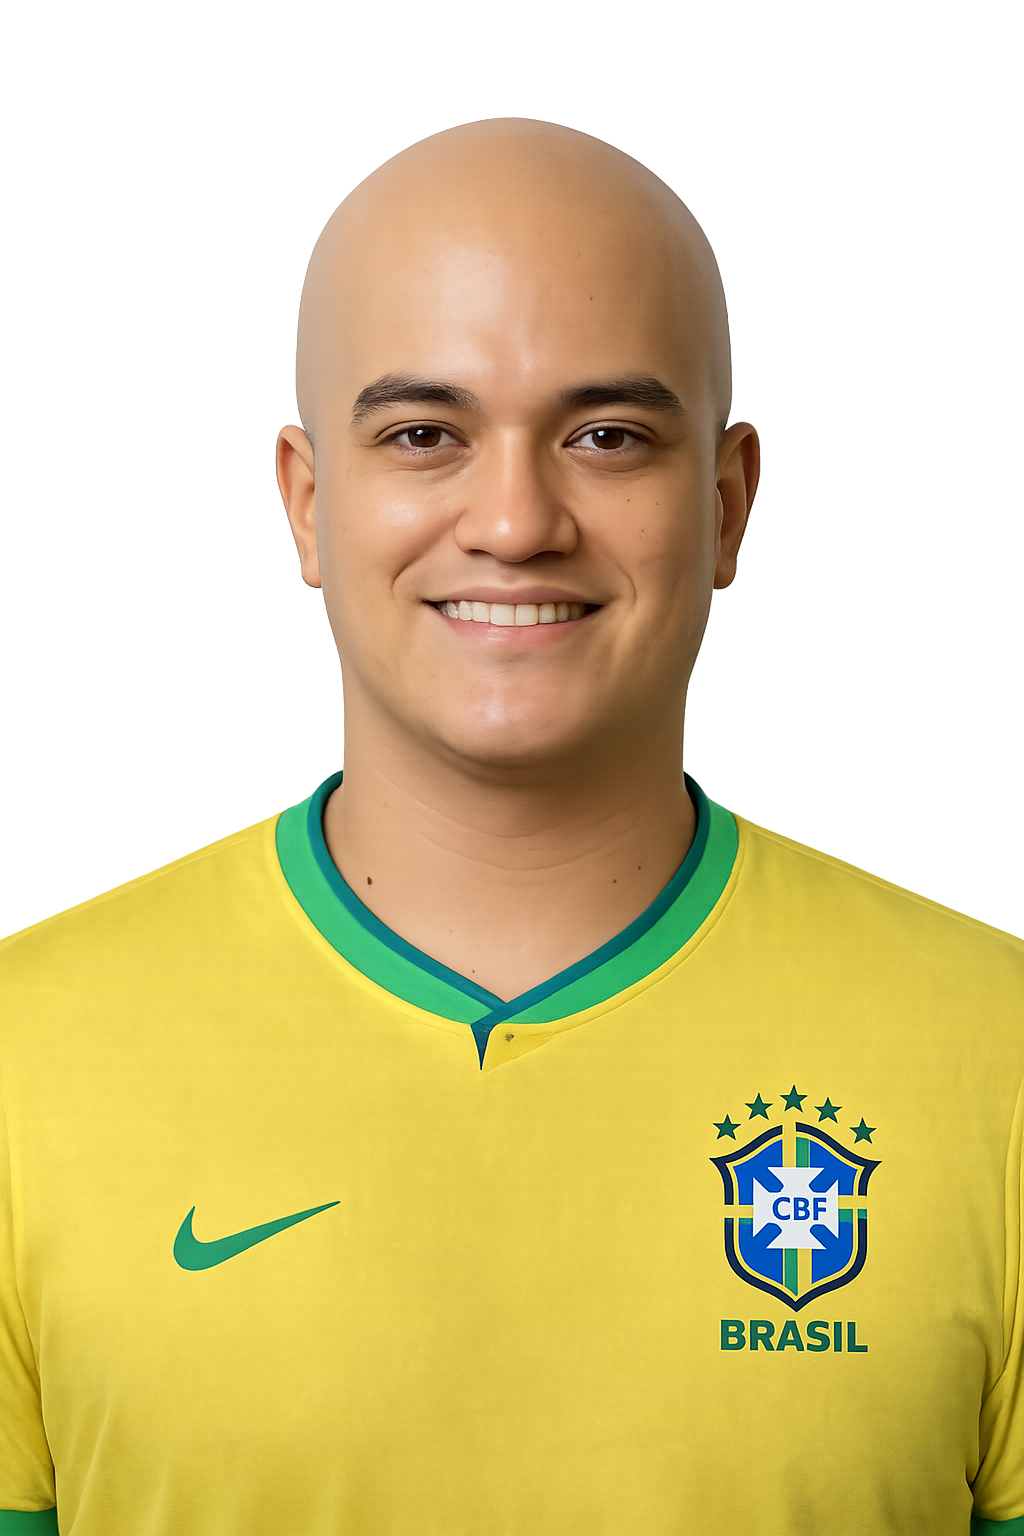
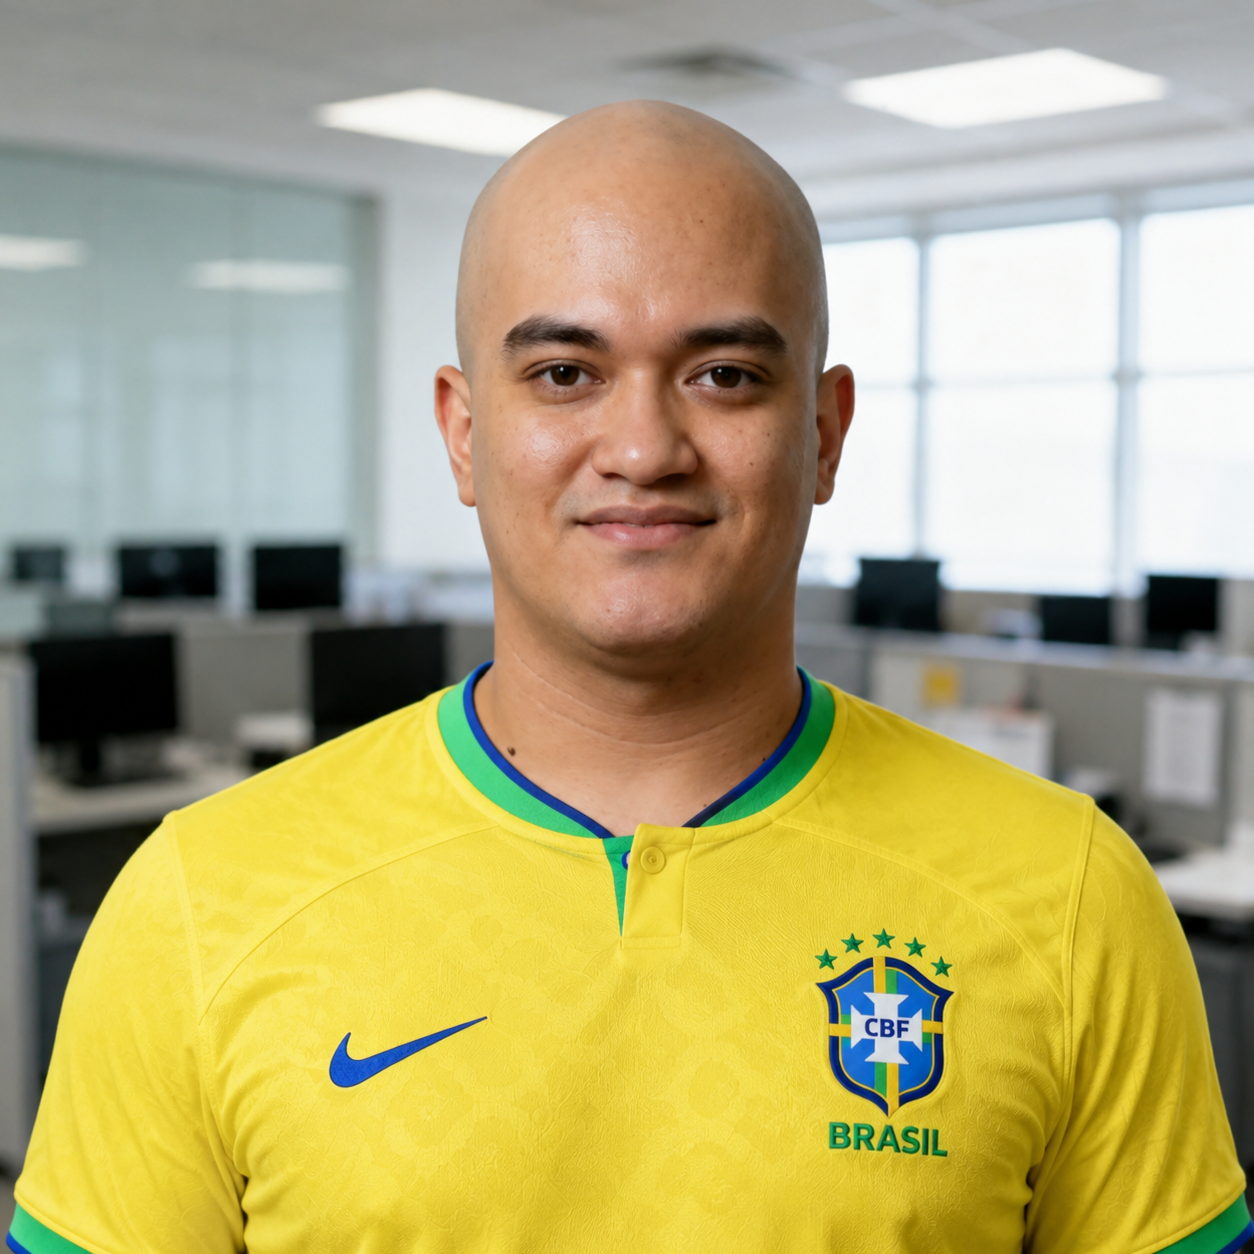
fix: substituir imagem do boleiro por versão RGB sem transparência

diff --git a/index.html b/index.html
@@ -1025,7 +1025,7 @@
 
   <!-- PENDING SCREEN -->
   <div id="screen-pending" class="screen">
-    <img src="/boleiro.png" style="width:120px;height:120px;border-radius:50%;object-fit:cover;object-position:center top;border:3px solid rgba(255,255,255,0.1);margin-bottom:8px">
+    <img src="/boleiro.png" style="width:160px;height:160px;border-radius:50%;object-fit:cover;object-position:center 25%;border:3px solid rgba(255,255,255,0.1);margin-bottom:8px">
     <div class="pending-title">Aguardando liberação</div>
     <div class="pending-text">Faça o pagamento via PIX abaixo para entrar no bolão.<br>Após confirmar o pagamento, o admin vai te liberar.</div>
     <div id="pending-payment" style="width:100%;max-width:320px;margin:16px auto 0">